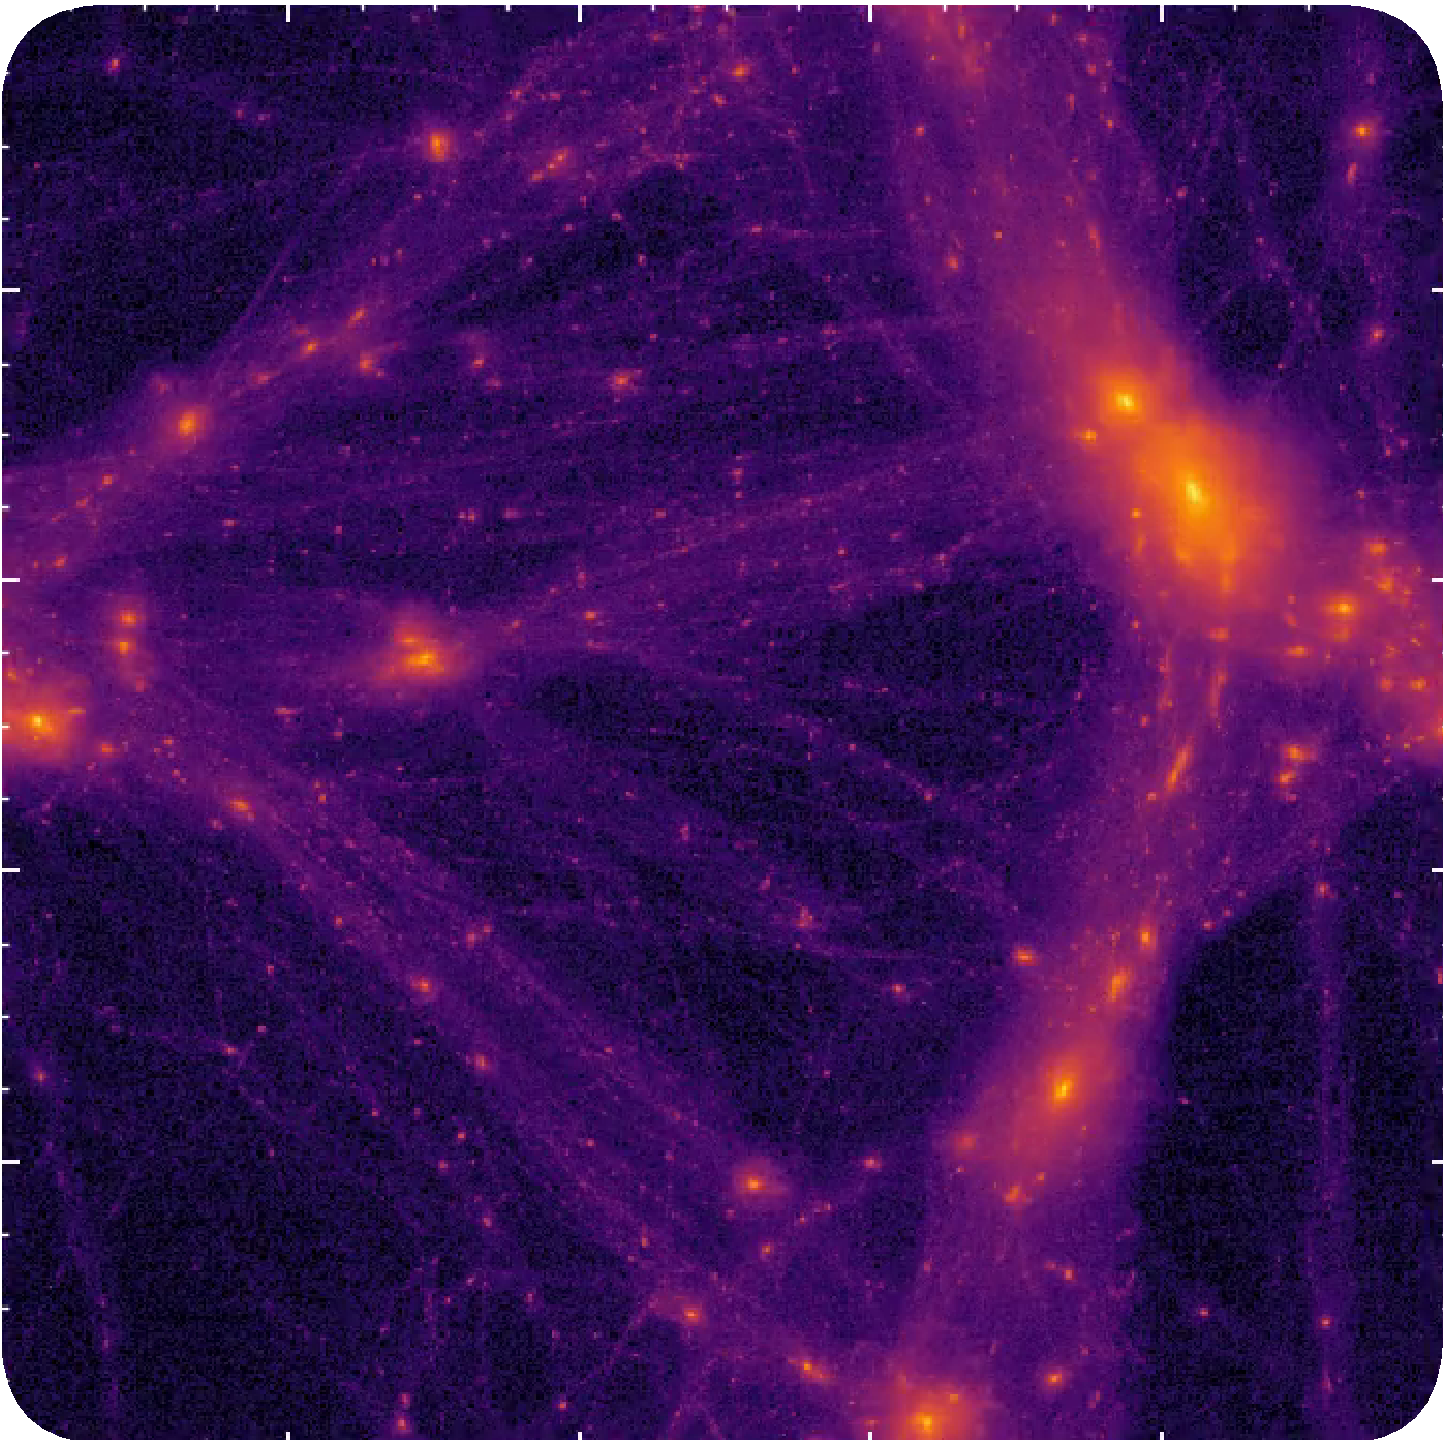
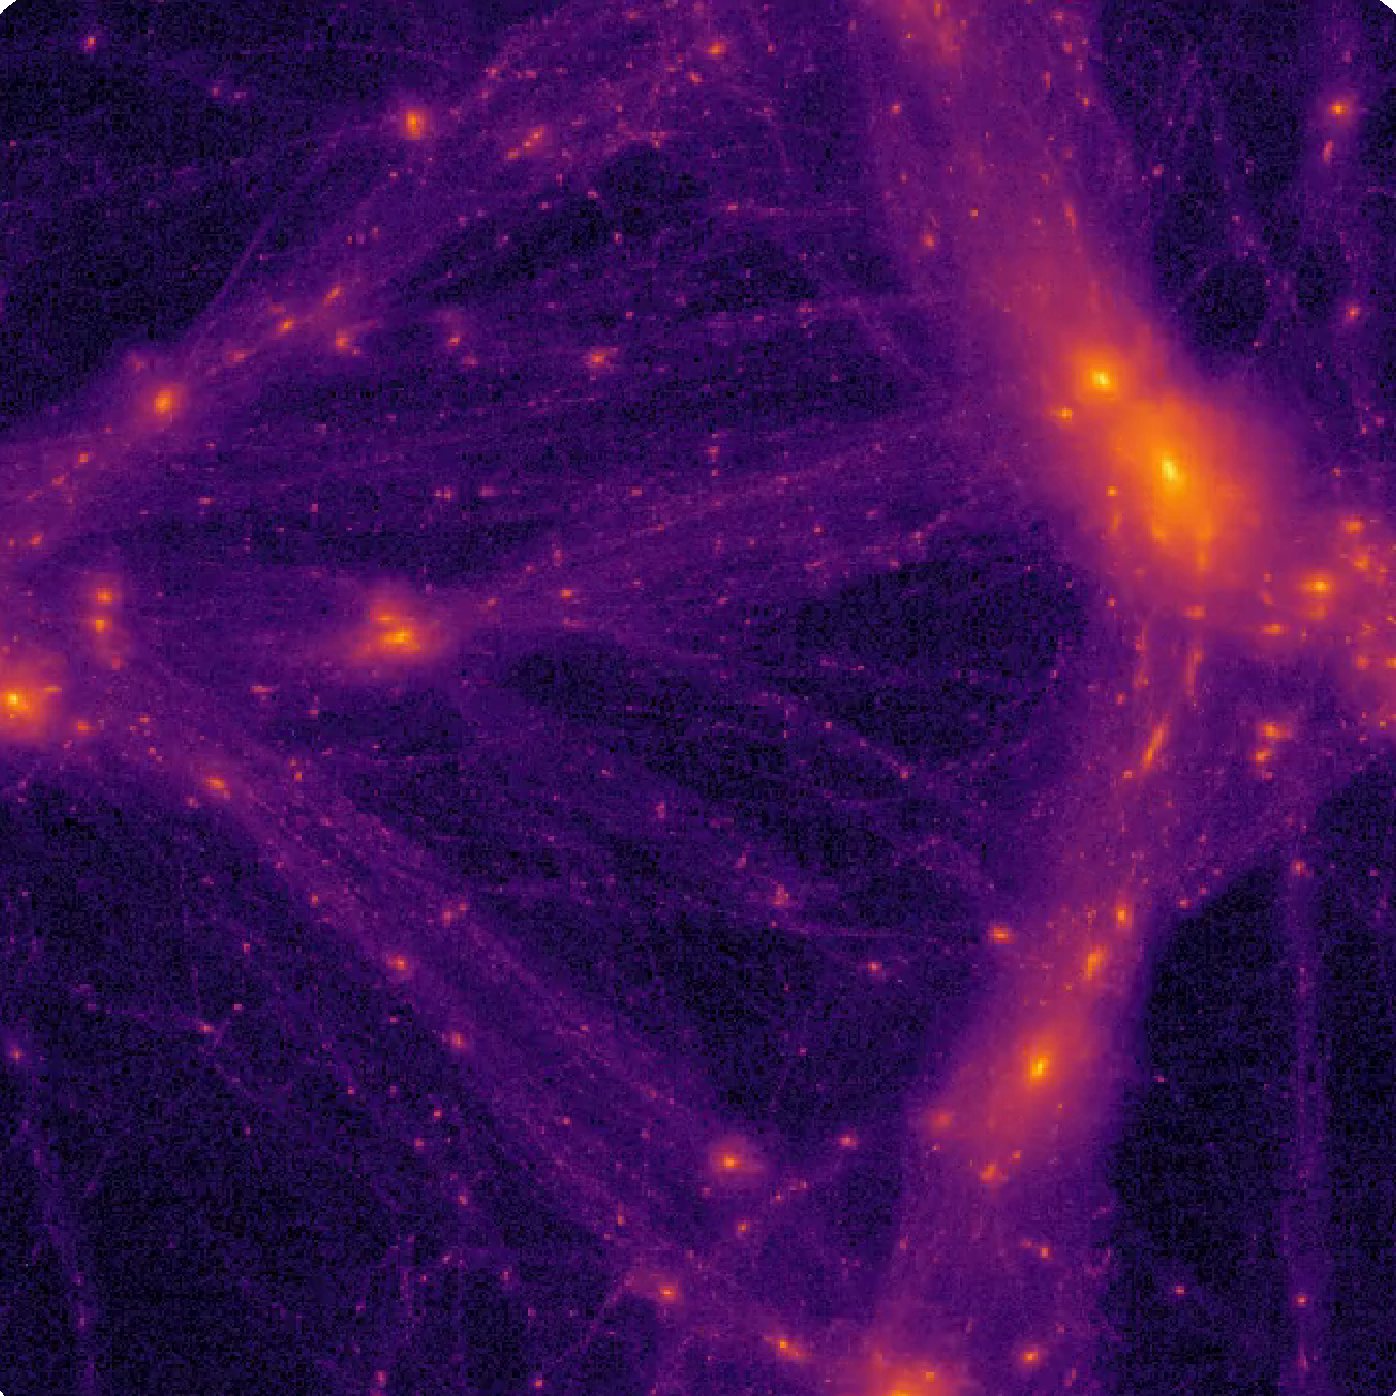
style: the ASTROLABE thumbnail fills its plate; World Models tag; paper button on the home band

diff --git a/blog.html b/blog.html
@@ -185,7 +185,7 @@
                                 <li class="post-list__item">
                                     <a class="post-list__link" href="blog/astrolabe-flow-matching.html">
                                         <div class="post-list__thumbs">
-                                            <div class="post-list__thumb">
+                                            <div class="post-list__thumb post-list__thumb--full">
                                                 <img src="blog/astrolabe-assets/figures/thumb-flowtime-z0.png"
                                                      alt="The ASTROLABE density field at z = 0 for a 10 Mpc/h box">
                                             </div>
@@ -201,6 +201,7 @@
                                             <span class="post-list__tag">Flow Matching</span>
                                             <span class="post-list__tag">Generative Models</span>
                                             <span class="post-list__tag">Simulation Emulation</span>
+                                            <span class="post-list__tag">World Models</span>
                                         </div>
                                         <span class="post-list__more">Read post &rarr;</span>
                                         </div>

diff --git a/index.html b/index.html
@@ -307,7 +307,7 @@
                     <div class="column xl-12">
                         <div class="blogstrip">
                             <a class="blogstrip__main" href="blog/astrolabe-flow-matching.html">
-                                <span class="blogstrip__thumb">
+                                <span class="blogstrip__thumb blogstrip__thumb--full">
                                     <img src="blog/astrolabe-assets/figures/thumb-flowtime-z0.png"
                                          alt="The ASTROLABE density field at z = 0 for a 10 Mpc/h box"
                                          loading="lazy">
@@ -320,6 +320,7 @@
                             </a>
                             <span class="blogstrip__actions">
                                 <a class="blogstrip__cta" href="blog/astrolabe-flow-matching.html">Read the post <span aria-hidden="true">&rarr;</span></a>
+                                <a class="blogstrip__cta blogstrip__cta--paper" href="https://arxiv.org/" target="_blank" rel="noopener">Read the paper</a>
                             </span>
                         </div>
 

diff --git a/assets/css/styles.css b/assets/css/styles.css
@@ -3014,6 +3014,13 @@ button.btn--pill {
 	transition: transform 0.3s ease;
 }
 
+.blogstrip__thumb--full {
+	padding   : 0;
+	background: #16082c;
+}
+
+.blogstrip__thumb--full img { margin: 0; border-radius: inherit; }
+
 .blogstrip__main:hover .blogstrip__thumb { border-color: var(--color-1); }
 .blogstrip__main:hover .blogstrip__thumb img { transform: scale(1.04); }
 
@@ -4502,6 +4509,22 @@ button.btn--pill {
 .post-list__link:focus .post-list__thumb {
 	border-color: var(--color-1-lighter);
 	box-shadow  : 0 6px 20px rgba(0, 0, 0, 0.08);
+}
+
+/* a thumbnail that is a full picture fills its plate edge to edge, with
+   nothing of the wash or the frame showing */
+.post-list__thumb--full {
+	padding   : 0;
+	background: #16082c;
+	border    : 0;
+}
+
+.post-list__thumb--full::before { content: none; }
+
+.post-list__thumb--full img {
+	margin       : 0;
+	border-radius: inherit;
+	filter       : none;
 }
 
 /* the tree is a wide detail crop, so it gets to bleed past the column edge

diff --git a/blog/astrolabe-flow-matching.html b/blog/astrolabe-flow-matching.html
@@ -262,6 +262,7 @@
                                 <span class="post-meta__tag">Flow Matching</span>
                                 <span class="post-meta__tag">Generative Models</span>
                                 <span class="post-meta__tag">Simulation Emulation</span>
+                                <span class="post-meta__tag">World Models</span>
                             </div>
                             <p class="post-collab">Paper in collaboration with:
                                 <a href="https://kahn-group.physics.utoronto.ca/">Yonatan Kahn</a>,

diff --git a/blog/astrolabe-assets/astrolabe-post.tex b/blog/astrolabe-assets/astrolabe-post.tex
@@ -171,7 +171,7 @@
 
 \posttitle{\astrolabe: A 3D Particle-Level Surrogate \\ for Cosmology Simulation \\ with Physical Flow Matching}
 \postdate{September 2026}
-\posttags{Cosmology; Flow Matching; Generative Models; Simulation Emulation}
+\posttags{Cosmology; Flow Matching; Generative Models; Simulation Emulation; World Models}
 \postbyline{by Ibrahim Elsharkawy, last edited September 2026}
 
 \papertitle{\astrolabe: A 3D Particle-Level Surrogate for Cosmology Simulation
